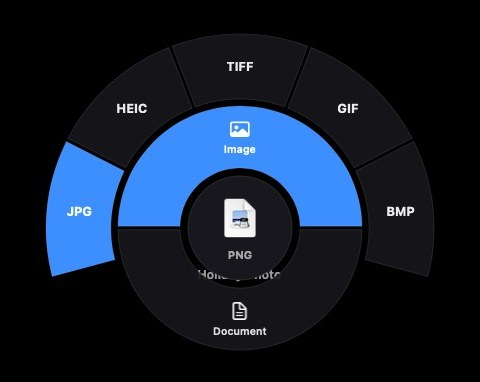
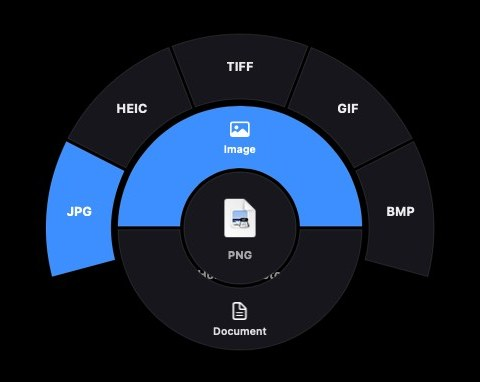
Morph: solid wheel segments [shots] [dist]
Claude-Session: https://claude.ai/code/session_0163SWZN2uvwEwcoHCmjLscV

diff --git a/morph/Sources/Wheel.swift b/morph/Sources/Wheel.swift
@@ -262,7 +262,7 @@ final class WheelView: NSView {
         ctx.setShadow(offset: CGSize(width: 0, height: -3), blur: 18, color: NSColor.black.withAlphaComponent(0.40).cgColor)
         ctx.beginTransparencyLayer(auxiliaryInfo: nil)
 
-        let base = NSColor(srgbRed: 0.09, green: 0.09, blue: 0.11, alpha: 0.97)
+        let base = NSColor(srgbRed: 0.09, green: 0.09, blue: 0.11, alpha: 1)
         if case .choosing = phase {
             drawGroups(ctx, base)
             drawFormats(ctx, base)
